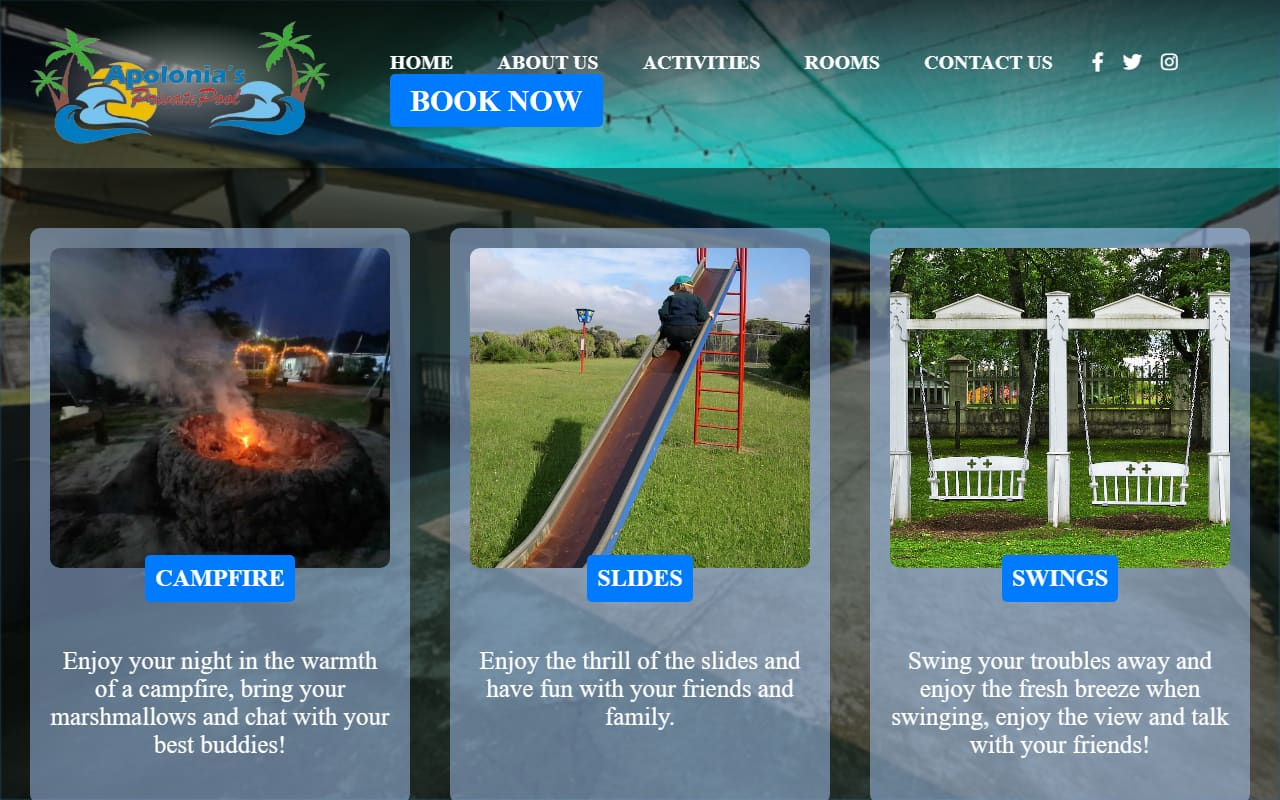
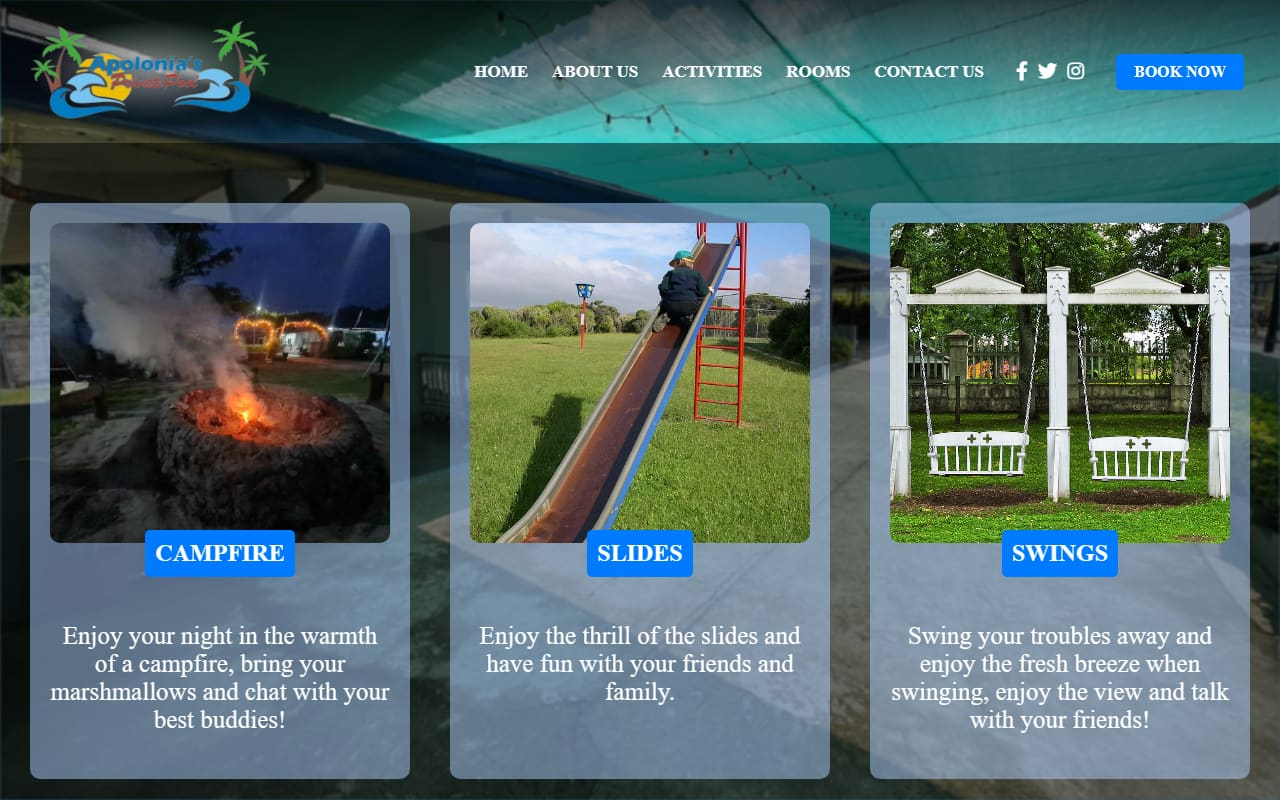
Keep BOOK NOW on the same line as the menu on desktop

diff --git a/style.css b/style.css
@@ -867,6 +867,89 @@ nav .mainMenu .closeMenu {
 
 }
 
+/* DESKTOP NAV: keep links, icons and BOOK NOW on one line */
+@media screen and (min-width: 751px) {
+    .navlink .mainMenu {
+        display: flex;
+        align-items: center;
+        flex-wrap: nowrap;
+        margin: 0 40px 0 0;
+        padding: 0;
+    }
+
+    .navlink .mainMenu li {
+        white-space: nowrap;
+    }
+
+    .navlink .icons {
+        display: flex;
+        align-items: center;
+        margin: 0 10px;
+    }
+
+    .navlink .book-now {
+        display: inline-block;
+        font-size: 18px;
+        padding: 10px 22px;
+        margin-left: 10px;
+    }
+
+    .navlink .book-now::after {
+        display: none;
+    }
+}
+
+@media screen and (min-width: 1101px) and (max-width: 1400px) {
+    .logo {
+        width: 240px;
+    }
+
+    .navlink .mainMenu {
+        margin-right: 24px;
+    }
+
+    .navlink .mainMenu li {
+        margin: 0 7px;
+        font-size: 17px;
+    }
+
+    .navlink .icons i {
+        padding-left: 10px;
+    }
+
+    .navlink .book-now {
+        font-size: 16px;
+        padding: 9px 18px;
+    }
+}
+
+@media screen and (min-width: 751px) and (max-width: 1100px) {
+    .logo {
+        width: 170px;
+        margin-left: 20px;
+    }
+
+    .navlink .mainMenu {
+        margin-right: 16px;
+    }
+
+    .navlink .mainMenu li {
+        margin: 0 4px;
+        padding: 4px;
+        font-size: 13px;
+    }
+
+    .navlink .icons {
+        display: none;
+    }
+
+    .navlink .book-now {
+        font-size: 13px;
+        padding: 8px 12px;
+        margin-left: 4px;
+    }
+}
+
 /* MEDIA QUERY FOR PRINT */
 @media print{
     body{
